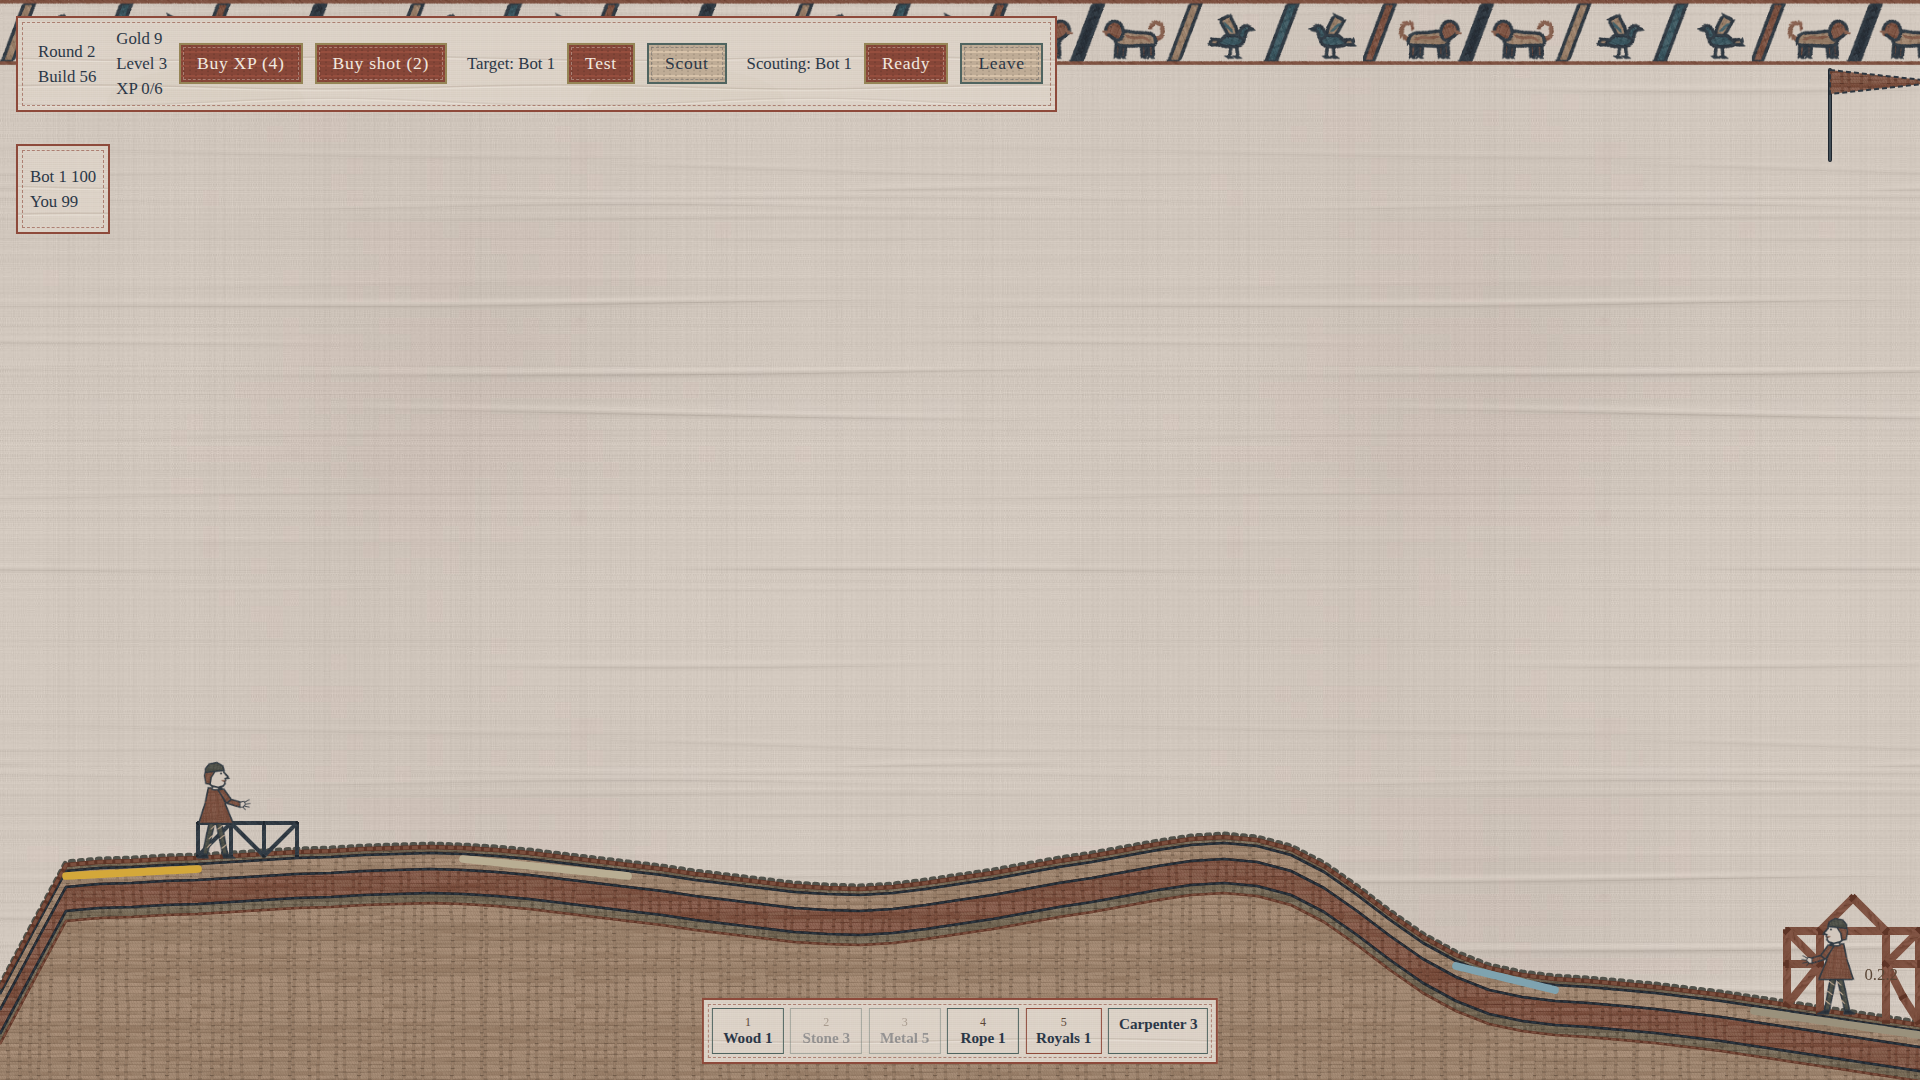
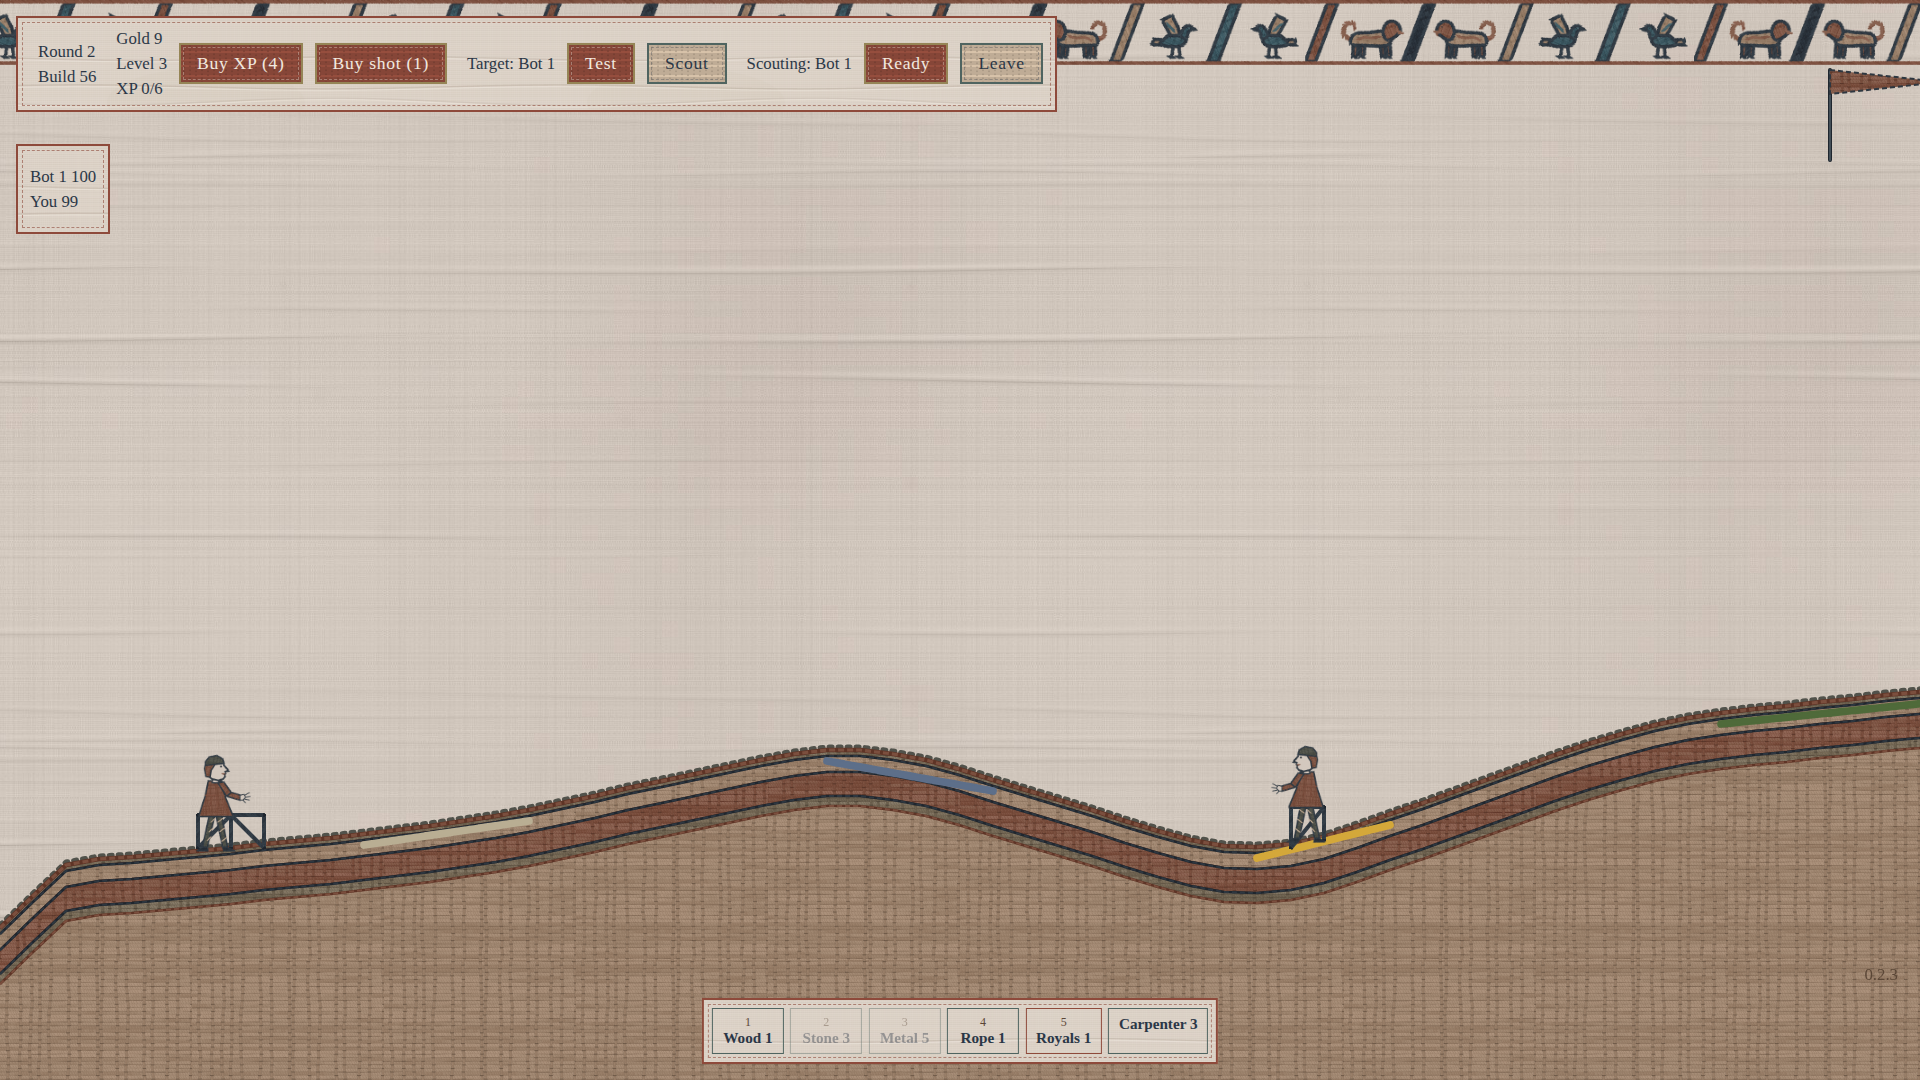
0.2.4: bots shelter royals; royals at world scale

diff --git a/crates/core/src/app.rs b/crates/core/src/app.rs
@@ -21,7 +21,7 @@ use crate::{glossary, icon, patch_notes};
 
 /// The build's version: the version button's text, and the top row of
 /// `data/patch-notes.json`. `scripts/bump.sh` changes the two together.
-pub const VERSION: &str = "0.2.3";
+pub const VERSION: &str = "0.2.4";
 
 /// The sound sliders' step, percent.
 const VOLUME_STEP: u32 = 5;
